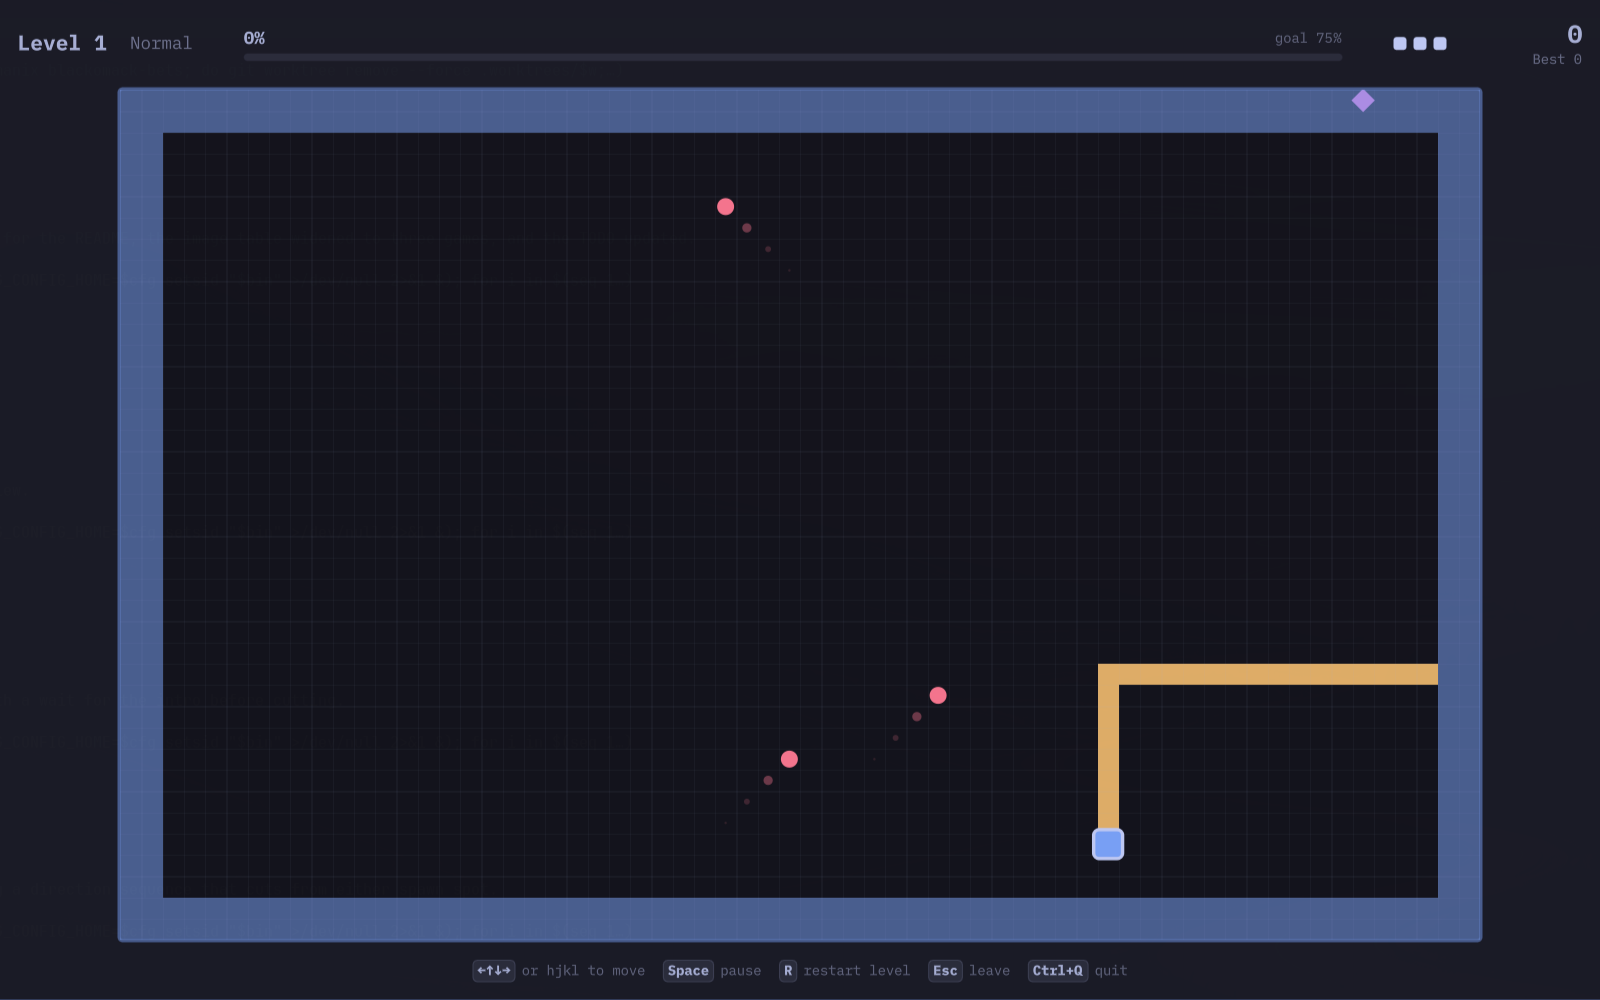
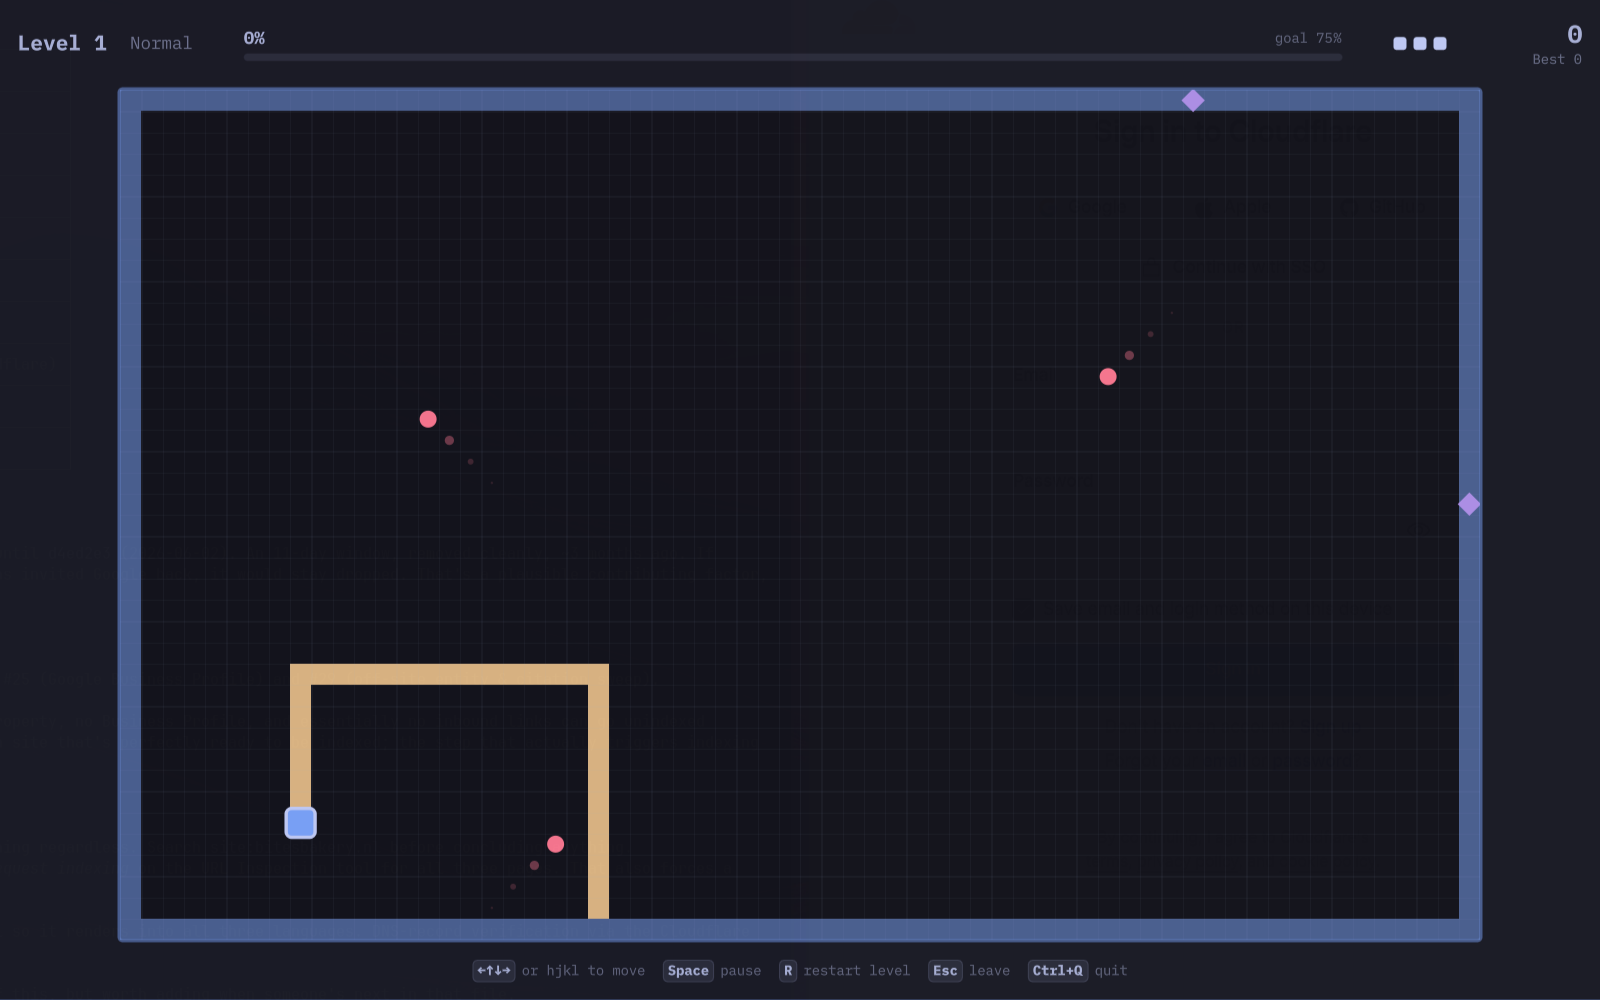
Omanix screenshot with the one-cell frame; TODO and agent-brief notes

diff --git a/docs/PARALLEL-AGENTS.md b/docs/PARALLEL-AGENTS.md
@@ -35,7 +35,8 @@ Be explicit that:
 - it never touches `main`, never runs `git worktree`, never force-pushes,
   never merges its own PR,
 - it verifies with tests, `qmllint` (the exact command from
-  `.github/workflows/ci.yml`) and a run under `QT_FORCE_STDERR_LOGGING=1`
+  `.github/workflows/ci.yml`), the `-Wall -Wextra -Werror` build of the game
+  *and* its test suite (CI rebuilds both), and a run under `QT_FORCE_STDERR_LOGGING=1`
   (Qt logs QML warnings to journald when stderr is not a tty) — and does
   **not** take or update screenshots; those are refreshed by hand now and then,
 - it finishes with `rm -rf build build-tests && bin/build <game> && bin/test <game>`,

diff --git a/TODO.md b/TODO.md
@@ -8,7 +8,6 @@
 - [ ] Extra hard almost always lands on Y-wing (swordfish 1/80); add XY-chain / uniqueness to widen the top band
 
 ## Omanix
-- [ ] Play-test the difficulty ramp (ball speed per level, chaser count) and tune the constants in `level.cpp`
 - [ ] Optional: reduced-motion setting for the sweep-fill/pulse animations
 
 ## Omasweeper
